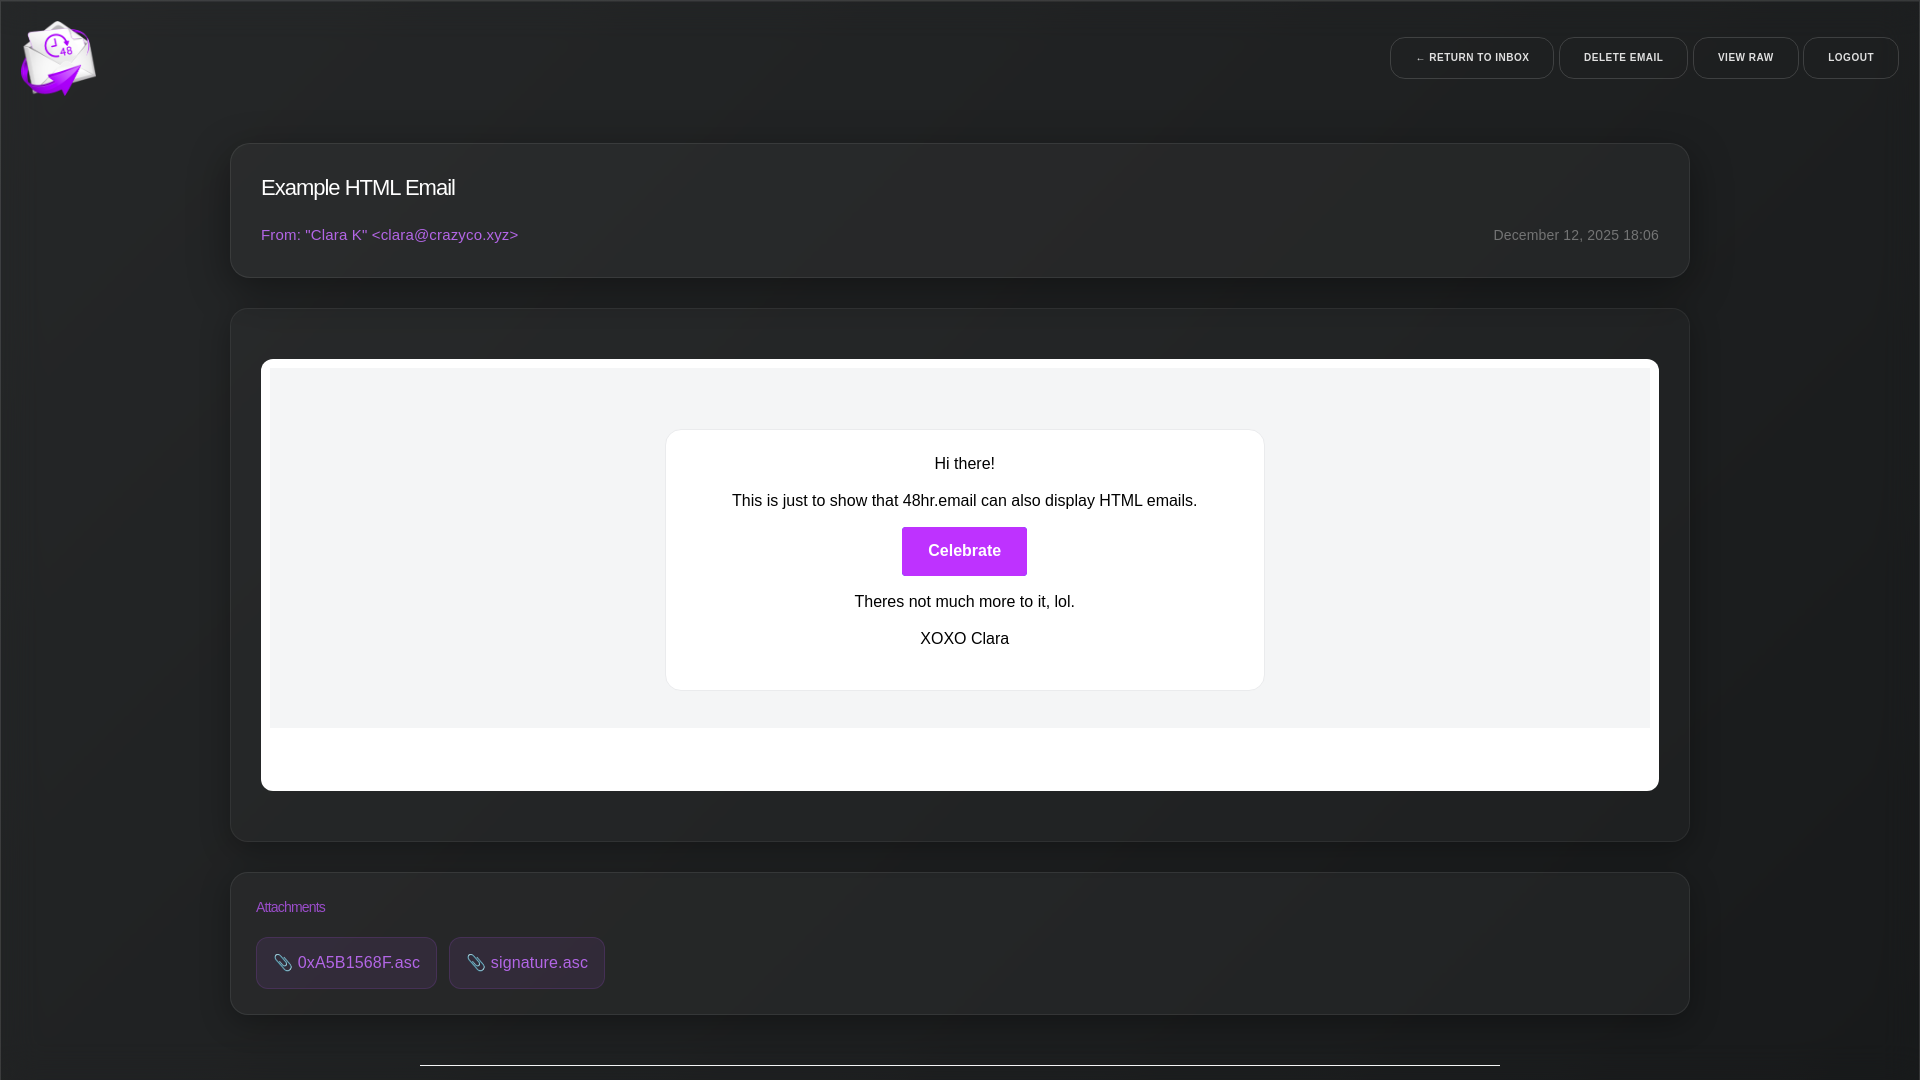
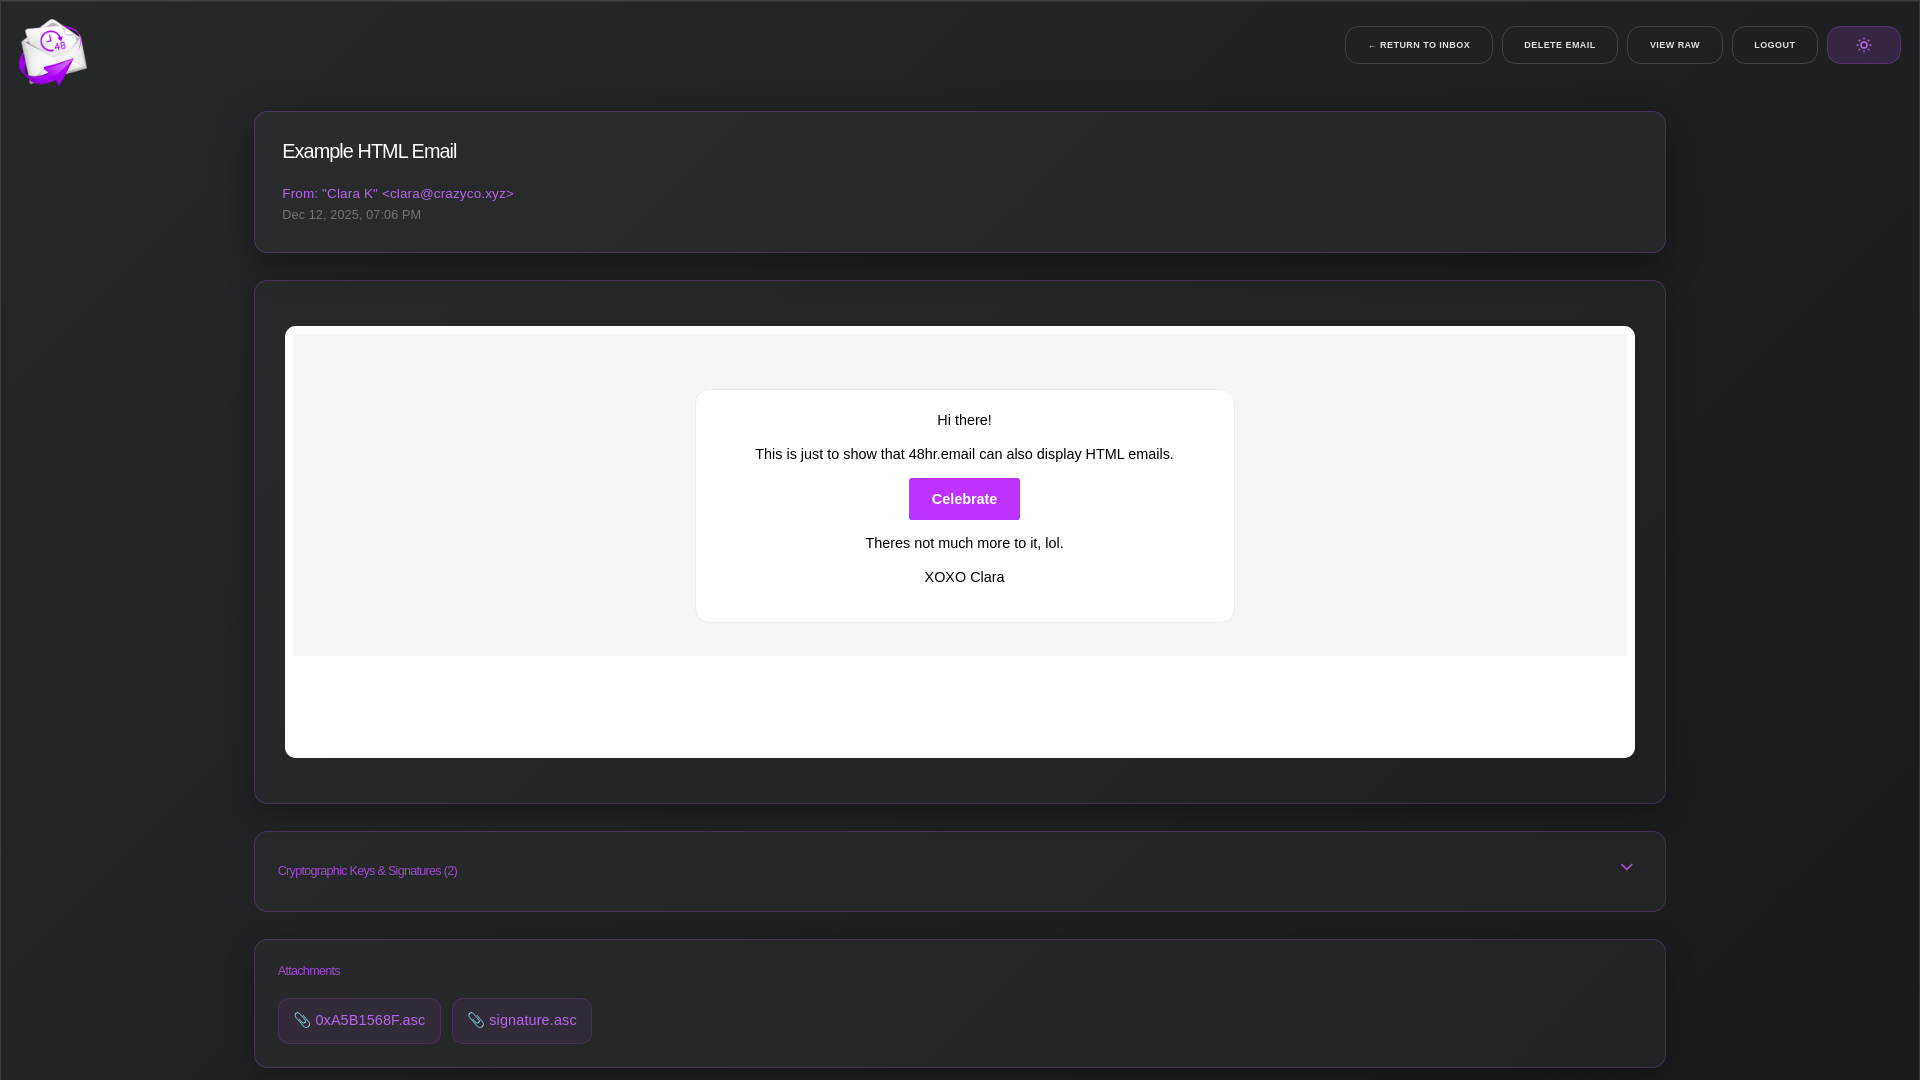
[Chore]: Readme Update

diff --git a/README.md b/README.md
@@ -4,20 +4,27 @@
     <img align="center" src="https://i.imgur.com/zPzvSQJ.png" width="100%">
 </p>
 
+<p align="center">
+  <a href="https://48hr.email" target="_blank">Official Instance</a> •
+  <a href="https://48hr.email/inbox/example@48hr.email" target="_blank">Example Inbox</a> •
+  <a href="https://discord.gg/crazyco" target="_blank">Discord</a>
+</p>
+
+<br>
+
 -----
 
-### What is this?
+## What is this?
 
 48hr.email is my very own tempmail service. You can create emails on the fly with one click, not needing to worry about corporations do with your email. They can sell that one all they want!
 
 All data is being removed 48hrs after they have reached the mail server.
 
-<p align="center"><a href="https://48hr.email" target="_blank">Try now</a> | <a href="https://48hr.email/inbox/example@48hr.email" target="_blank">Example Inbox</a> | <a href="https://discord.gg/crazyco" target="_blank">Discord</a></p>
-<br><br>
+<br>
 
 -----
 
-### What are its features?
+## Features
 
 - Create a custom inbox with select name and domain, or get a fully randomized one
 - Receive emails with a clean preview in your inbox, with optional browser notifications
@@ -25,42 +32,65 @@ All data is being removed 48hrs after they have reached the mail server.
 - Delete your emails ahead of time by pressing the delete button
 - View the raw email, showing all the headers etc.
 - Download Attachments
+- Automatic detection and display of cryptographic keys and signatures
+- Password-protected inboxes
+- Dark mode
 - and more...
 
-<br><br>
+<br>
 
 -----
 
-### How does this work?
+## Screenshots
+
+| Inbox | Email using HTML and CSS |
+|:---:|:---:|
+| <img src=".github/assets/inbox.png" width="100%" style="min-width: 300px"> | <img src=".github/assets/html.png" width="100%" style="min-width: 300px"> |
+
+| Email without CSS | Dropdown for cryptographic Keys and Signatures |
+|:---:|:---:|
+| <img src=".github/assets/raw.png" width="100%" style="min-width: 300px"> | <img src=".github/assets/keys.png" width="100%" style="min-width: 300px"> |
+
+<br>
+
+-----
+
+## How does this work?
 
 48hr.email uses an existing IMAP server for its handling. A single catch-all account and the accompanying credentials handle all the emails.
 
-<br><br>
+<br>
 
 -----
 
-### How can I set this up myself?
+## How can I set this up myself?
 
-- Prerequisites:
-    - Mail server with IMAP
-    - One or multiple domains dedicated to this
-    - git & nodejs
+**Prerequisites:**
+- Mail server with IMAP
+- One or multiple domains dedicated to this
+- git & nodejs
 
 <br>
 
 <details>
-<summary>Option 1 - bare-metal install:</summary>
+<summary>Option 1 - bare-metal install</summary>
 
-- #### Setup:
-    - `git clone https://github.com/Crazyco-xyz/48hr.email.git`
-    - `cd 48hr.email`
-    - `npm i`
-    - Change all settings to the desired values:
-        - Either use environmental variables, or modify `.env` (see `.env.example`)
-    - `npm run start`
-
-- #### Service file example:
+#### Setup:
 ```bash
+git clone https://github.com/Crazyco-xyz/48hr.email.git
+cd 48hr.email
+npm i
+```
+
+Change all settings to the desired values:
+- Either use environmental variables, or modify `.env` (see `.env.example`)
+
+```bash
+npm run start
+```
+
+#### Service file example:
+```ini
 [Unit]
 Description=48hr-email
 After=network-online.target
@@ -83,48 +113,40 @@ WantedBy=multi-user.target
 </details>
 
 <details>
-<summary>Option 2 - Docker:</summary>
+<summary>Option 2 - Docker</summary>
 
-- #### Setup:
-    - `git clone https://github.com/Crazyco-xyz/48hr.email.git`
-    - `cd 48hr.email`
-    - Change all settings to the desired values:
-        - Either use environmental variables, or modify `.env`, see `.env.example`
-    - `docker compose up -d`
-    - If desired, you can also move the config file somewhere else (change volume mount accordingly)
+#### Setup:
+```bash
+git clone https://github.com/Crazyco-xyz/48hr.email.git
+cd 48hr.email
+```
+
+Change all settings to the desired values:
+- Either use environmental variables, or modify `.env`, see `.env.example`
+
+```bash
+docker compose up -d
+```
+
+If desired, you can also move the config file somewhere else (change volume mount accordingly)
 </details>
 
-<br><br>
+<br>
 
 -----
-### TODO (PRs welcome):
+
+## TODO (PRs welcome)
+
 - Add user registration:
-    - Optional "premium" domains that arent visible to the public to prevent them from being scraped and flagged
-    - Allow people to set up forwarding 
+    - Allow people to forward single emails, or an inbox in its current state
 
-#### Unsure:
-- Possible payment integration once registration exists, to lock one or more of these new features behind a paywall (configurable, ofc)
-
-<br><br>
+<br>
 
 -----
 
-### Screenshots:
+## Support me
 
-- #### Inbox:
-<img align="center" src=".github/assets/inbox.png">
-
-- #### Email using HTML and CSS:
-<img align="center" src=".github/assets/html.png">
-
-- #### Email without CSS:
-<img align="center" src=".github/assets/raw.png">
-
-<br><br>
-
------
-
-## ❤ Support me
+If you find this project useful, consider supporting its development!
 
 <!--
 Pwease support me >.<
